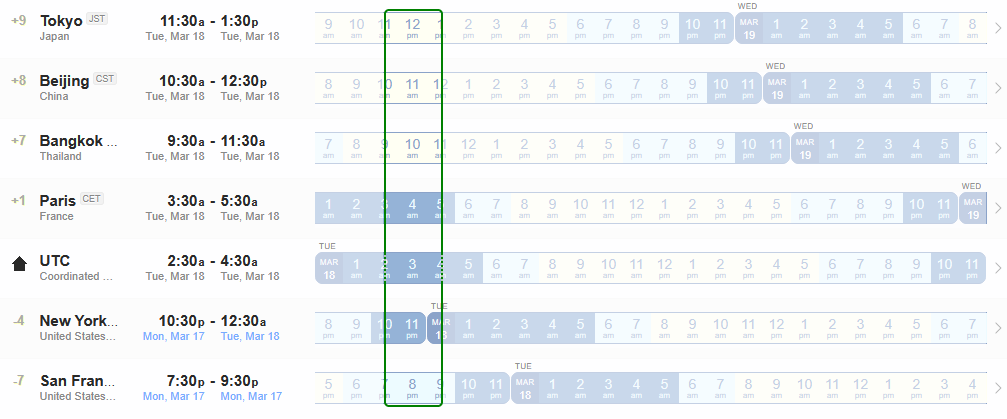
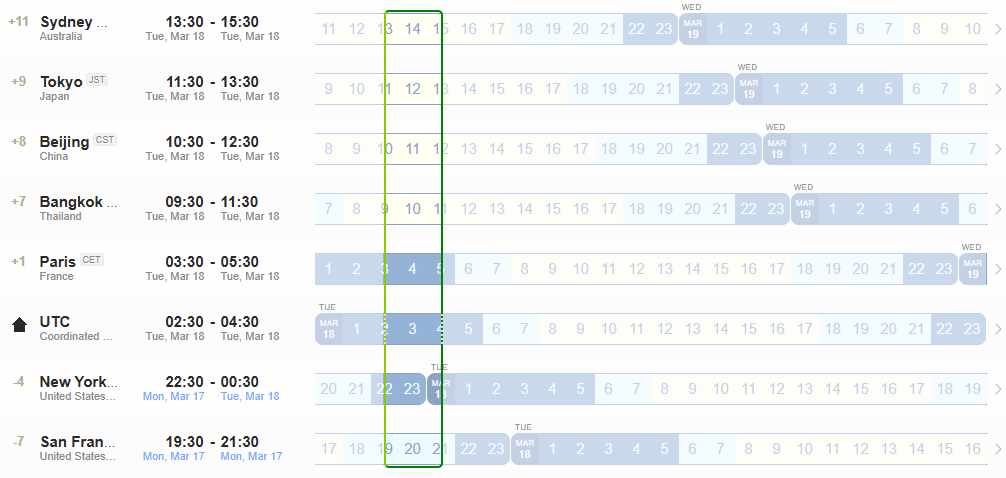
Updated time zone infos (was wrong)
GgX

diff --git a/README.md b/README.md
@@ -4,7 +4,7 @@ This repository contains material and pointers to past and future NASR meetings.
 
 ## Next Upcoming Meeting:
 
-# NASR is meeting at next **[IETF 122 in Bangkok](https://datatracker.ietf.org/meeting/122/agenda)** - [18 March 2025 UTC 02:30](https://www.worldtimebuddy.com/?qm=1&lid=1850147,1816670,1609350,2988507,100,5128581,5391959&h=100&date=2025-3-18&sln=2.5-4.5&hf=1) 
+# NASR is meeting at next **[IETF 122 in Bangkok](https://datatracker.ietf.org/meeting/122/agenda)** - [18 March 2025 UTC 02:30](https://www.worldtimebuddy.com/?qm=1&lid=2147714,1850147,1816670,1609350,2988507,100,5128581,5391959&h=100&date=2025-3-18&sln=2.5-4.5&hf=0) 
 
 
 - Calendar Invitation: **[.ics file](https://datatracker.ietf.org/meeting/122/session/34026.ics)** 
